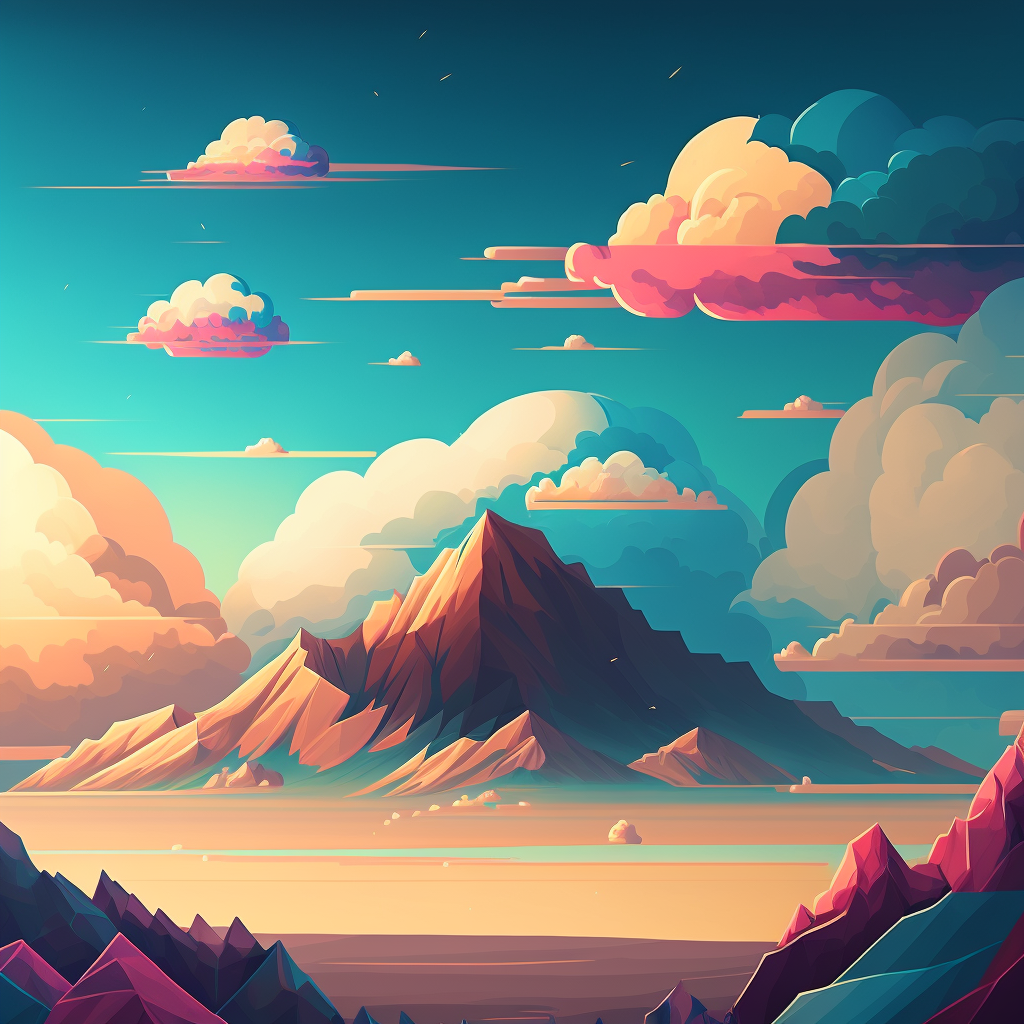
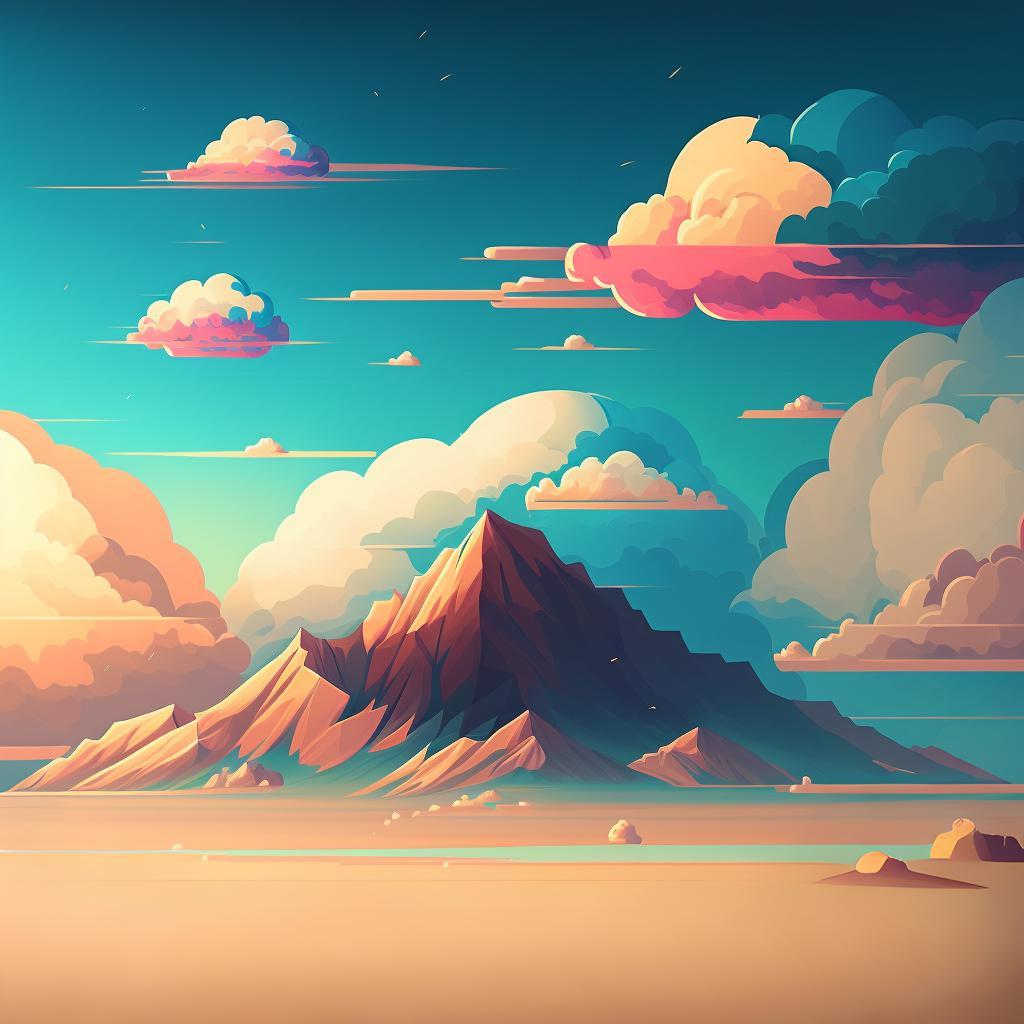
Lading_page_images

diff --git a/src/App.tsx b/src/App.tsx
@@ -1,4 +1,4 @@
-import React, {useRef, useState } from "react";
+import React, { useRef, useState } from "react";
 import "./App.css";
 import styled from "styled-components";
 
@@ -10,7 +10,7 @@ const Background = styled.div`
 `;
 
 const Image = styled.img`
-  position: absolute;
+  position: relative;
   top: 0;
   left: 0;
   width: 100%;
@@ -18,6 +18,14 @@ const Image = styled.img`
   display: block;
   transition: opacity 500ms, transform 500ms;
 `;
+
+// const StyledDiv = styled.div`
+//   position: relative;
+//   width: 100%;
+//   height: 1500px;
+//   display: block;
+//   background-color: red;
+// `;
 
 function App() {
   const ref = useRef<any>(null);
@@ -41,7 +49,6 @@ function App() {
   };
 
   const handleScrollTop = () => {
-
     if (ref.current) {
       // eslint-disable-next-line no-unused-vars
       const { scrollTop, clientHeight, scrollHeight } = ref.current;
@@ -55,7 +62,6 @@ function App() {
           }
         }, 500);
       }
-
     }
   };
 
@@ -63,19 +69,16 @@ function App() {
     // eslint-disable-next-line react/jsx-no-useless-fragment
     <>
       {bottom ? (
-          <Background
-            ref={ref}
-            onScroll={handleScrollTop}
-          >
-            <Image
-              src="/images/background/background2.png"
-              alt="image"
-              style={{
-                opacity: transition ? 0 : 1,
-                transform: `scale(${transition ? 1.5 : 1})`,
-              }}
-            />
-          </Background>
+        <Background ref={ref} onScroll={handleScrollTop}>
+          <Image
+            src="/images/background/Poust8k.png"
+            alt="image"
+            style={{
+              opacity: transition ? 0 : 1,
+              transform: `scale(${transition ? 1.5 : 1})`,
+            }}
+          />
+        </Background>
       ) : (
         <Background ref={ref} onScroll={handleScroll}>
           <Image
